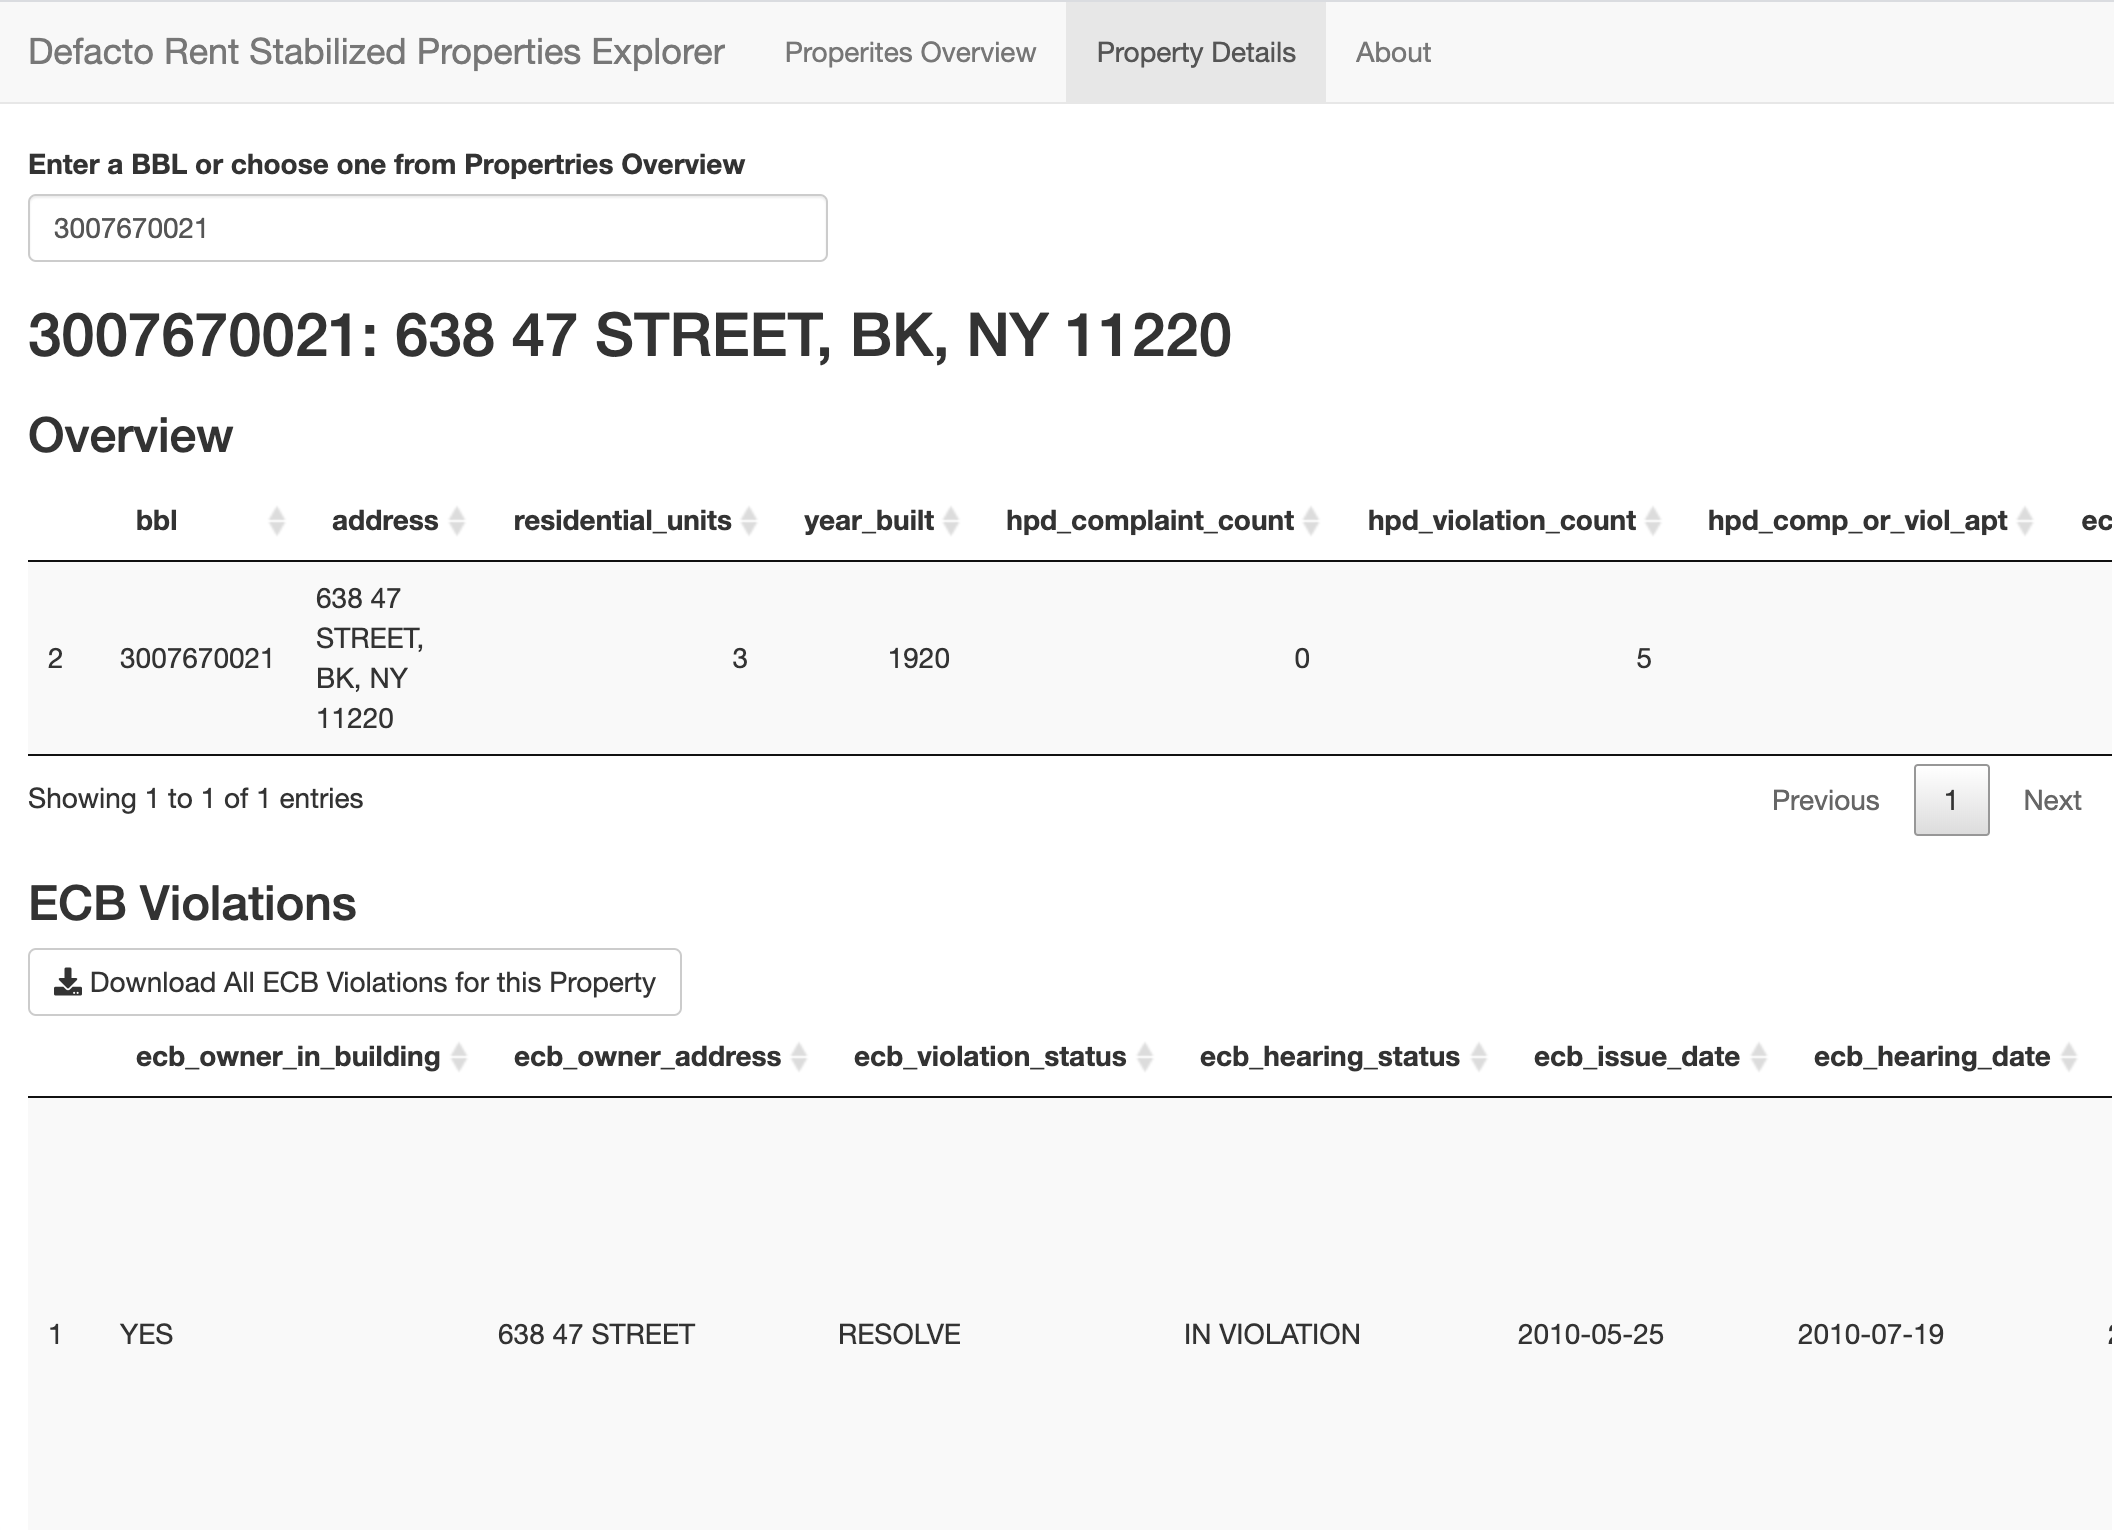
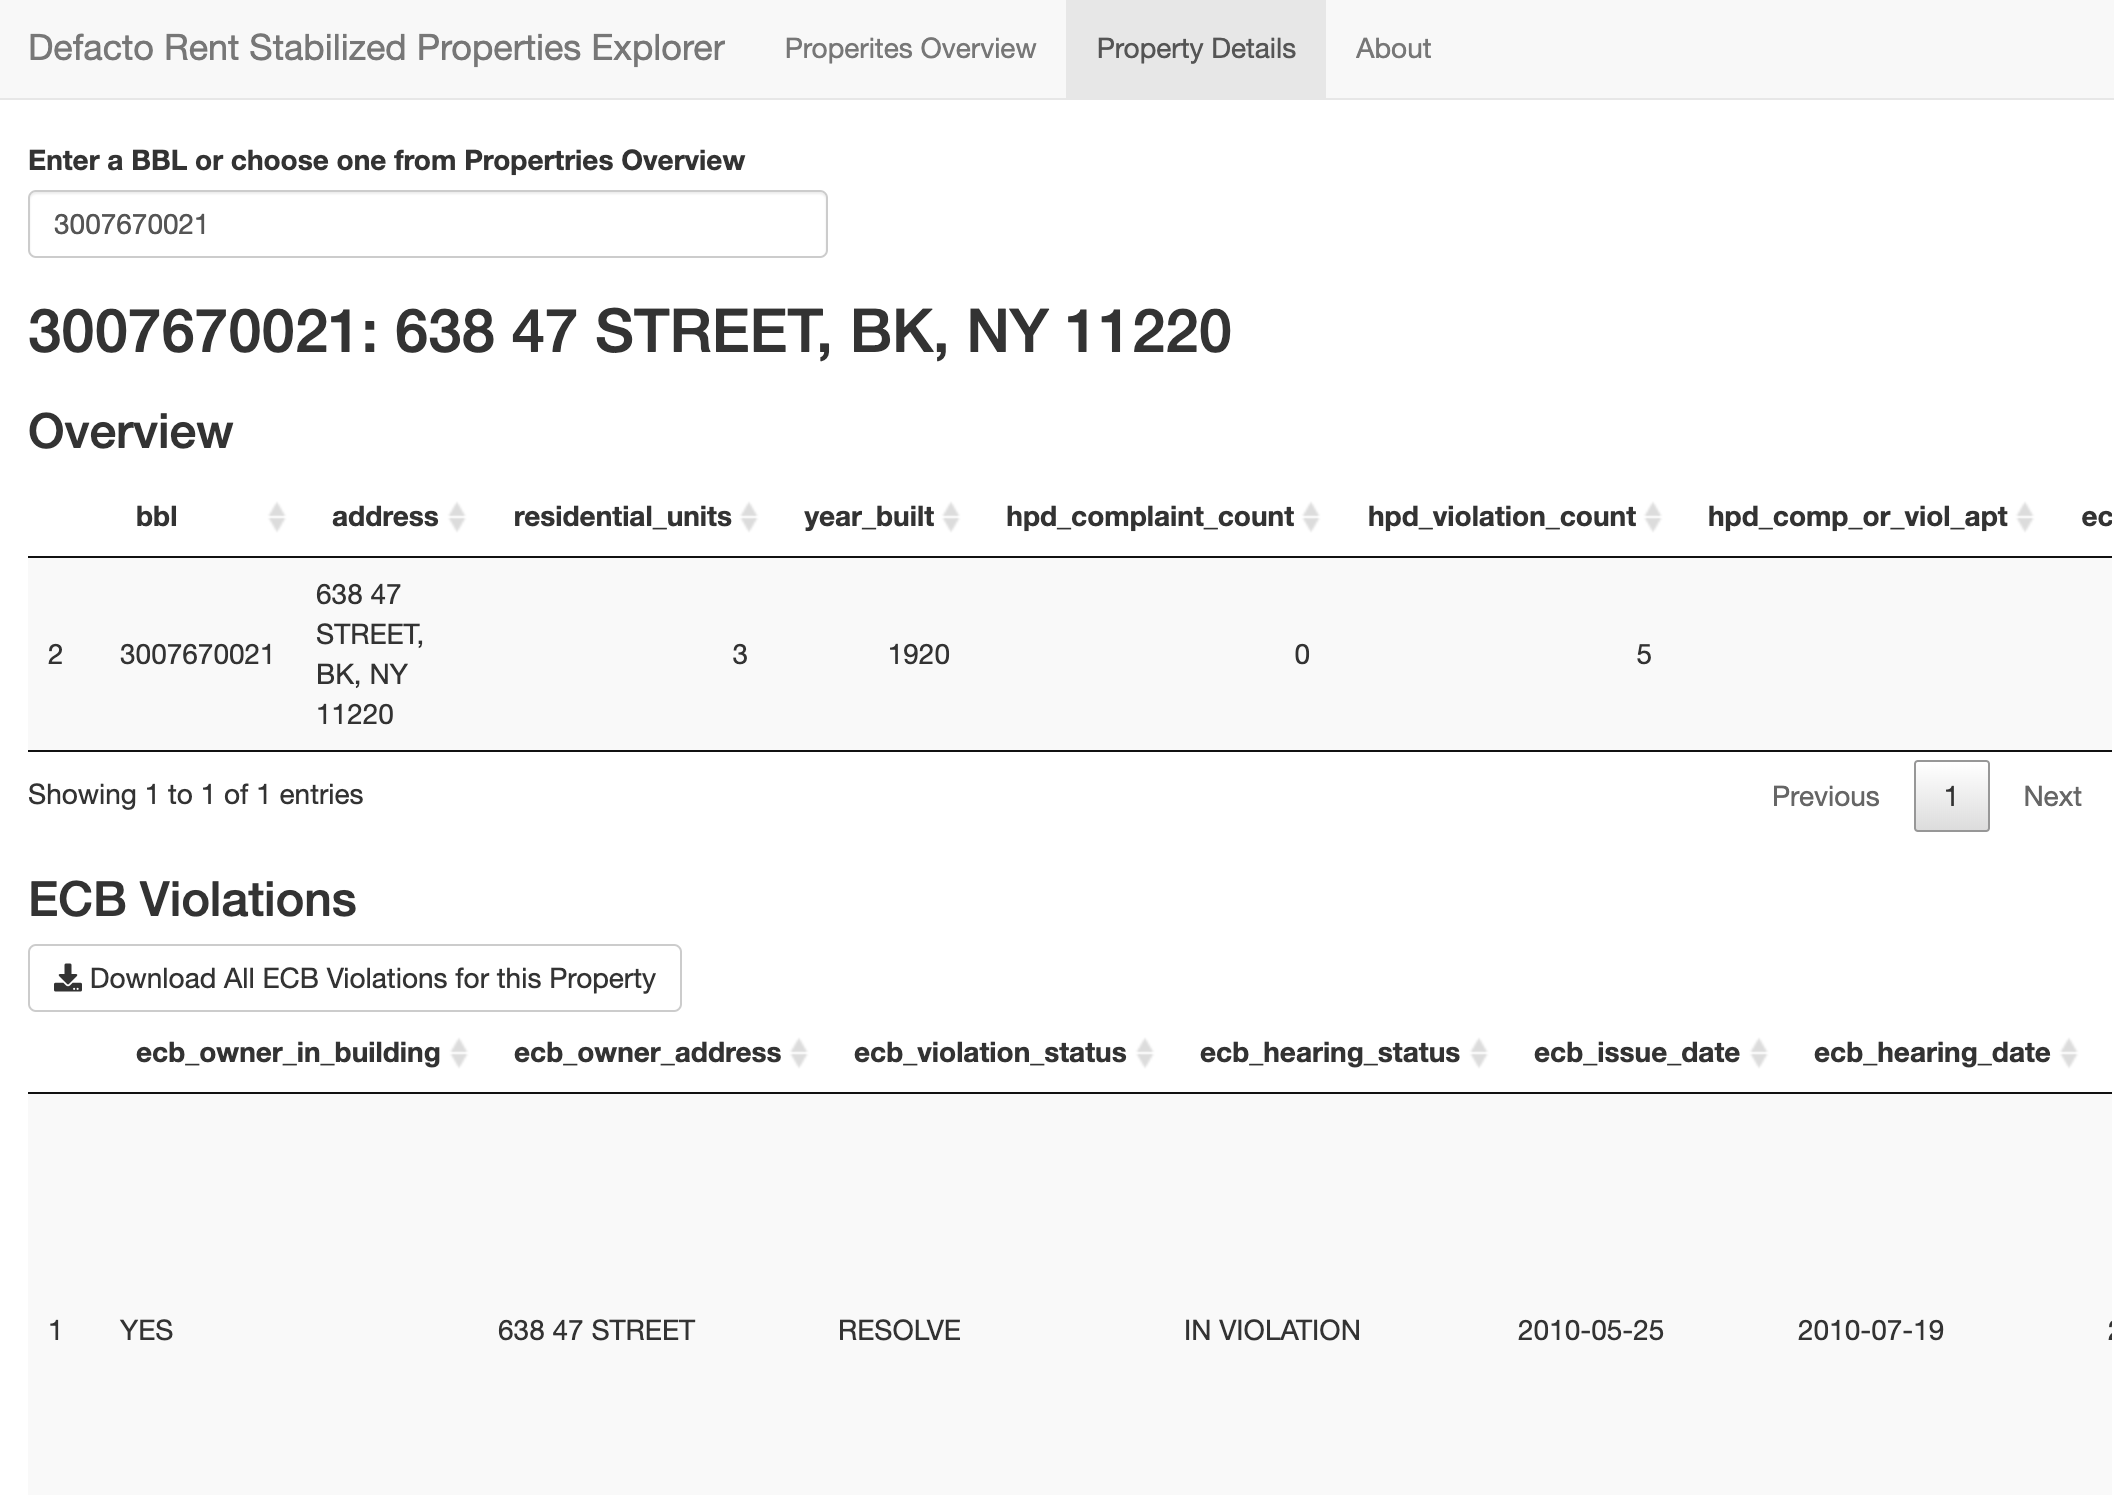
edit img sizes

diff --git a/README.md b/README.md
@@ -8,8 +8,8 @@ The app is built on top of the critical work done by [@aepyornis](https://github
 
 <a href="https://maxwell-austensen.shinyapps.io/defacto/">
 	<p float="left">
-		<img src="img/app-screenshot-overview.png" width="440" />
-		<img src="img/app-screenshot-details.png" width="440" /> 
+		<img src="img/app-screenshot-overview.png" width="430" />
+		<img src="img/app-screenshot-details.png" width="430" /> 
 	</p>
 </a>
 
